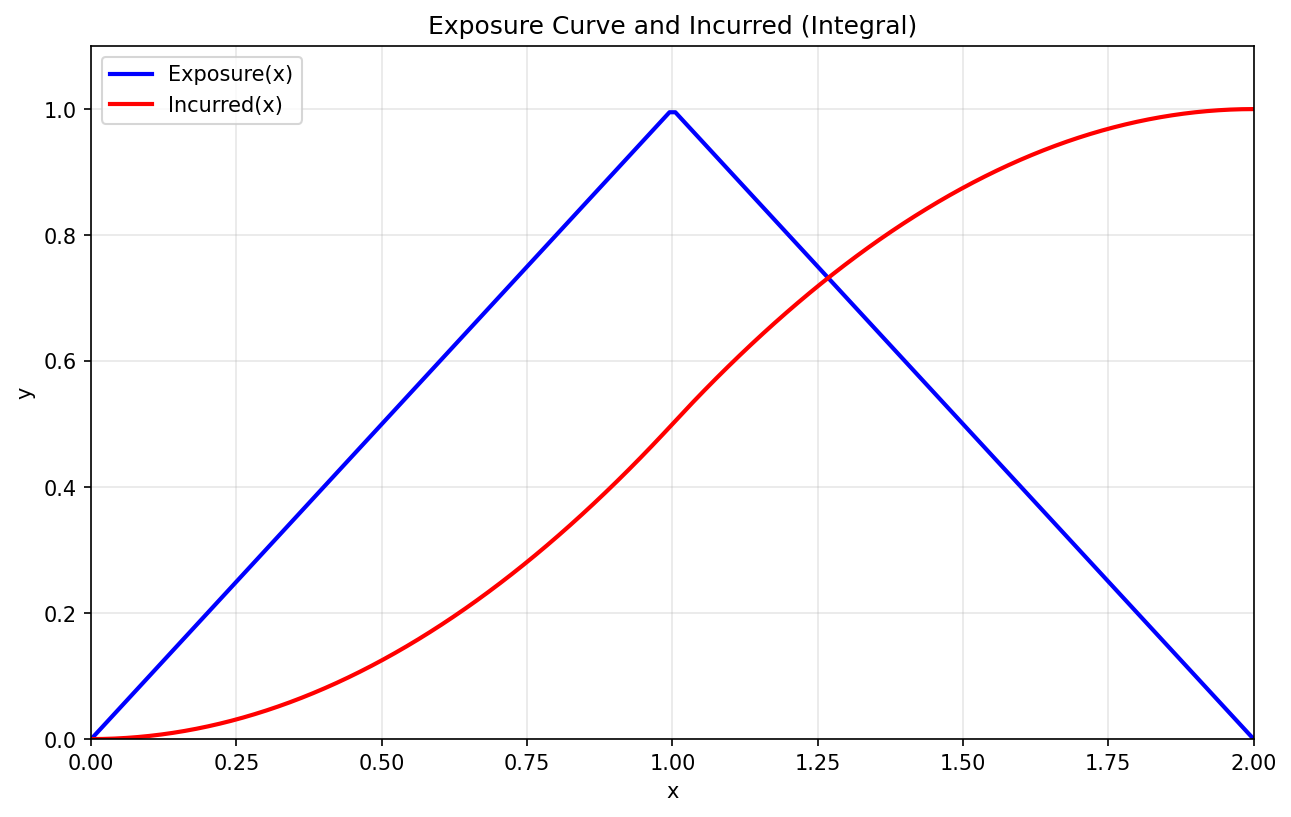
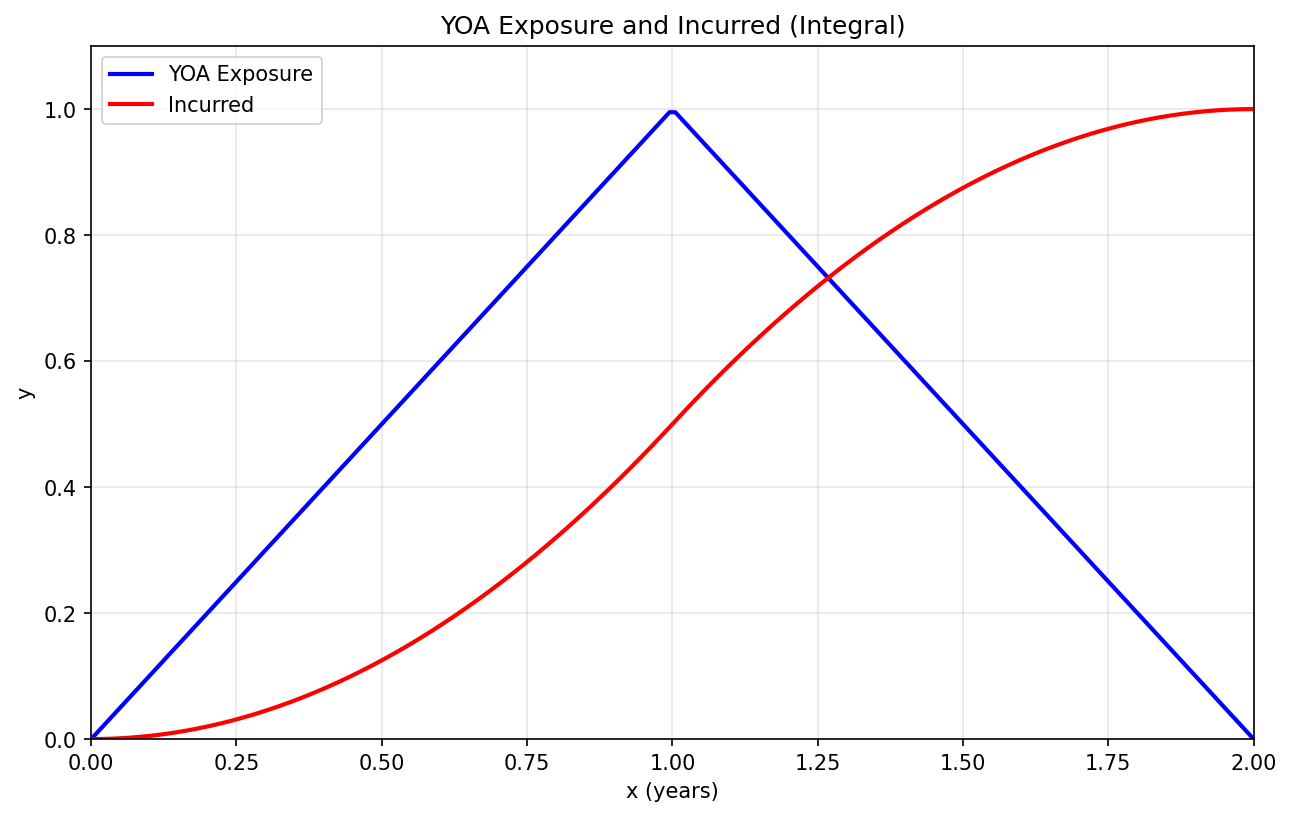
Rename Exposure Curve to Year of Account Exposure
- Change all references to "Year of Account Exposure"
- Use "YOA Exposure" on graphs where space is limited
- Regenerate images with updated titles and labels

Changed region(s): [[0.3408, 0.0, 0.7126, 0.0612], [0.1239, 0.0612, 0.2479, 0.153], [0.4957, 0.9486, 0.5577, 0.9792]]

diff --git a/README.md b/README.md
@@ -13,23 +13,23 @@ jupyter notebook actuarial_quiz.ipynb
 
 ---
 
-## Q1: Integral of Exposure Curve
+## Q1: Integral of Year of Account Exposure
 
-This exposure curve models a **year of account** with:
+This models a **year of account** with:
 - **Even attachment** of policies throughout the year
 - **One-year policy terms**
 
 At time x=0 (start of year), no exposure has been earned. Exposure builds linearly as policies attach throughout the first year, peaking at x=1 (end of year 1) when all policies are on-risk. During year 2, policies begin to expire, and exposure decreases linearly until x=2 when all policies have run off.
 
-The exposure curve is defined as:
+The Year of Account Exposure is defined as:
 - For 0 ≤ x ≤ 1: Exposure(x) = x
 - For 1 < x ≤ 2: Exposure(x) = 1 - (x - 1) = 2 - x
 
-### Step 1: Plot the Exposure Curve
+### Step 1: Plot the Year of Account Exposure
 
-A triangular exposure curve peaking at x = 1.
+A triangular exposure peaking at x = 1.
 
-![Exposure Curve](images/exposure_curve.png)
+![YOA Exposure](images/exposure_curve.png)
 
 ### Step 2: Integrate Exposure(x) to get Incurred(x)
 
@@ -41,11 +41,11 @@ Incurred(x) = ∫₀ˣ Exposure(t) dt
 | 1 | 0.5000 |
 | 2 | 1.0000 |
 
-### Step 3: Plot Exposure(x) and Incurred(x) Together
+### Step 3: Plot Year of Account Exposure and Incurred Together
 
-Combined line chart showing both the exposure curve and its cumulative integral.
+Combined line chart showing both the YOA Exposure and its cumulative integral.
 
-![Exposure and Incurred](images/exposure_incurred.png)
+![YOA Exposure and Incurred](images/exposure_incurred.png)
 
 ---
 
